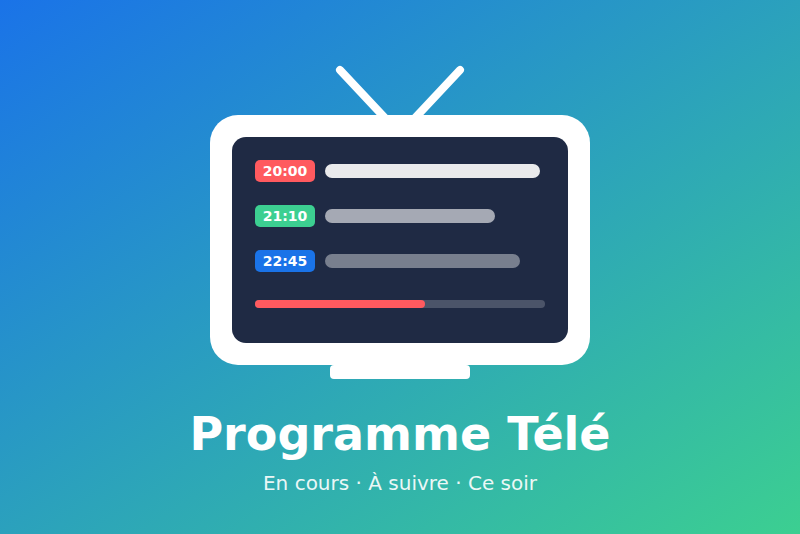
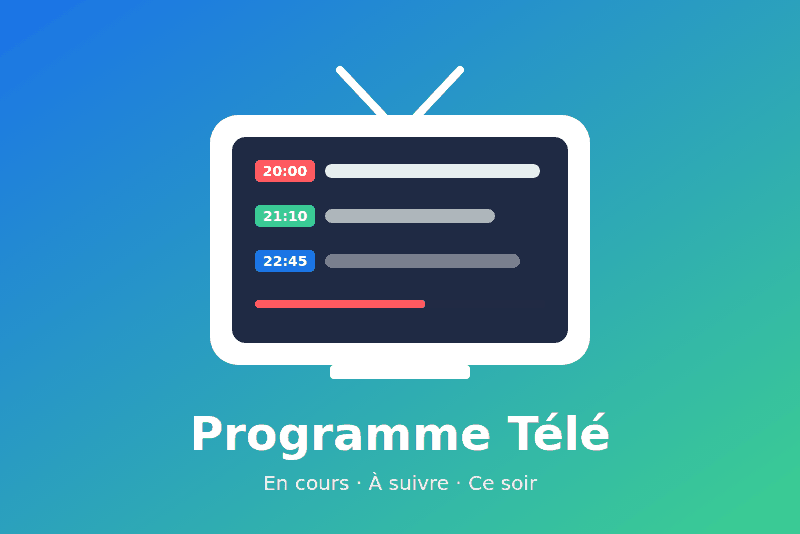
chore: cover.png compressée sous la limite de 150 Ko du store
Claude-Session: https://claude.ai/code/session_01EuQByaa5YBFQ5NimAM1sJJ

diff --git a/README.md b/README.md
@@ -92,7 +92,7 @@ npx github:GladysAssistant/integration-store .   # validation du store
 ## Publier
 
 1. Ajouter le topic GitHub `gladys-assistant-integration` au dépôt.
-2. Remplacer `cover.png` (800×534 px, ≤150 Ko) — l'actuel est celui du template.
+2. `cover.png` : 800×534 px, ≤150 Ko (limite du store).
 3. **Actions → Release → Run workflow** (`patch` / `minor` / `major`) : bump de
    version, tag et image multi-arch sur `ghcr.io/prohand/gladys-programmetele`.
 
